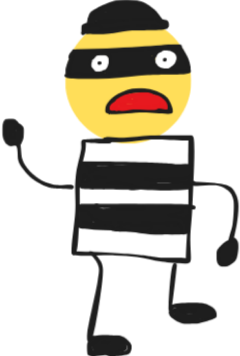
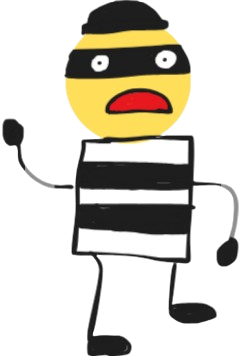
e
e

diff --git a/sketch.js b/sketch.js
@@ -5,6 +5,7 @@ let x2;
 let scrollSpeed = 5;
 let thiefImage1;
 let thiefImage2;
+let thief;
 
 function preload() {
   backgroundImage = loadImage('Images/background.png');
@@ -14,6 +15,7 @@ function preload() {
 function setup() {
   createCanvas(windowWidth, windowHeight);
   calculateBackgroundImageDimensions();
+  thief = new Thief();
 }
 
 function draw() {
@@ -28,6 +30,7 @@ function draw() {
   if (x2 <= -scaledBackgroundImageWidth) {
     x2 = scaledBackgroundImageWidth-scrollSpeed;
   }
+  thief.show();
 }
 
 function windowResized() {
@@ -44,13 +47,14 @@ function calculateBackgroundImageDimensions() {
 
 class Thief {
   constructor() {
-    this.size = 50;
+    this.spriteHeight = 150;
+    this.spriteWidth = 100;
     this.x = 50;
-    this.y = height-this.size-100;
+    this.y = height-this.spriteHeight-100;
     this.vy = 0;
     this.gravity = 0.8;
-    show() {
-      image(thiefImage1, this.x, this.y, this.size, this.size);
-    }
+  }
+  show() {
+    image(thiefImage1, this.x, this.y, this.spriteWidth, this.spriteHeight);
   }
 }
